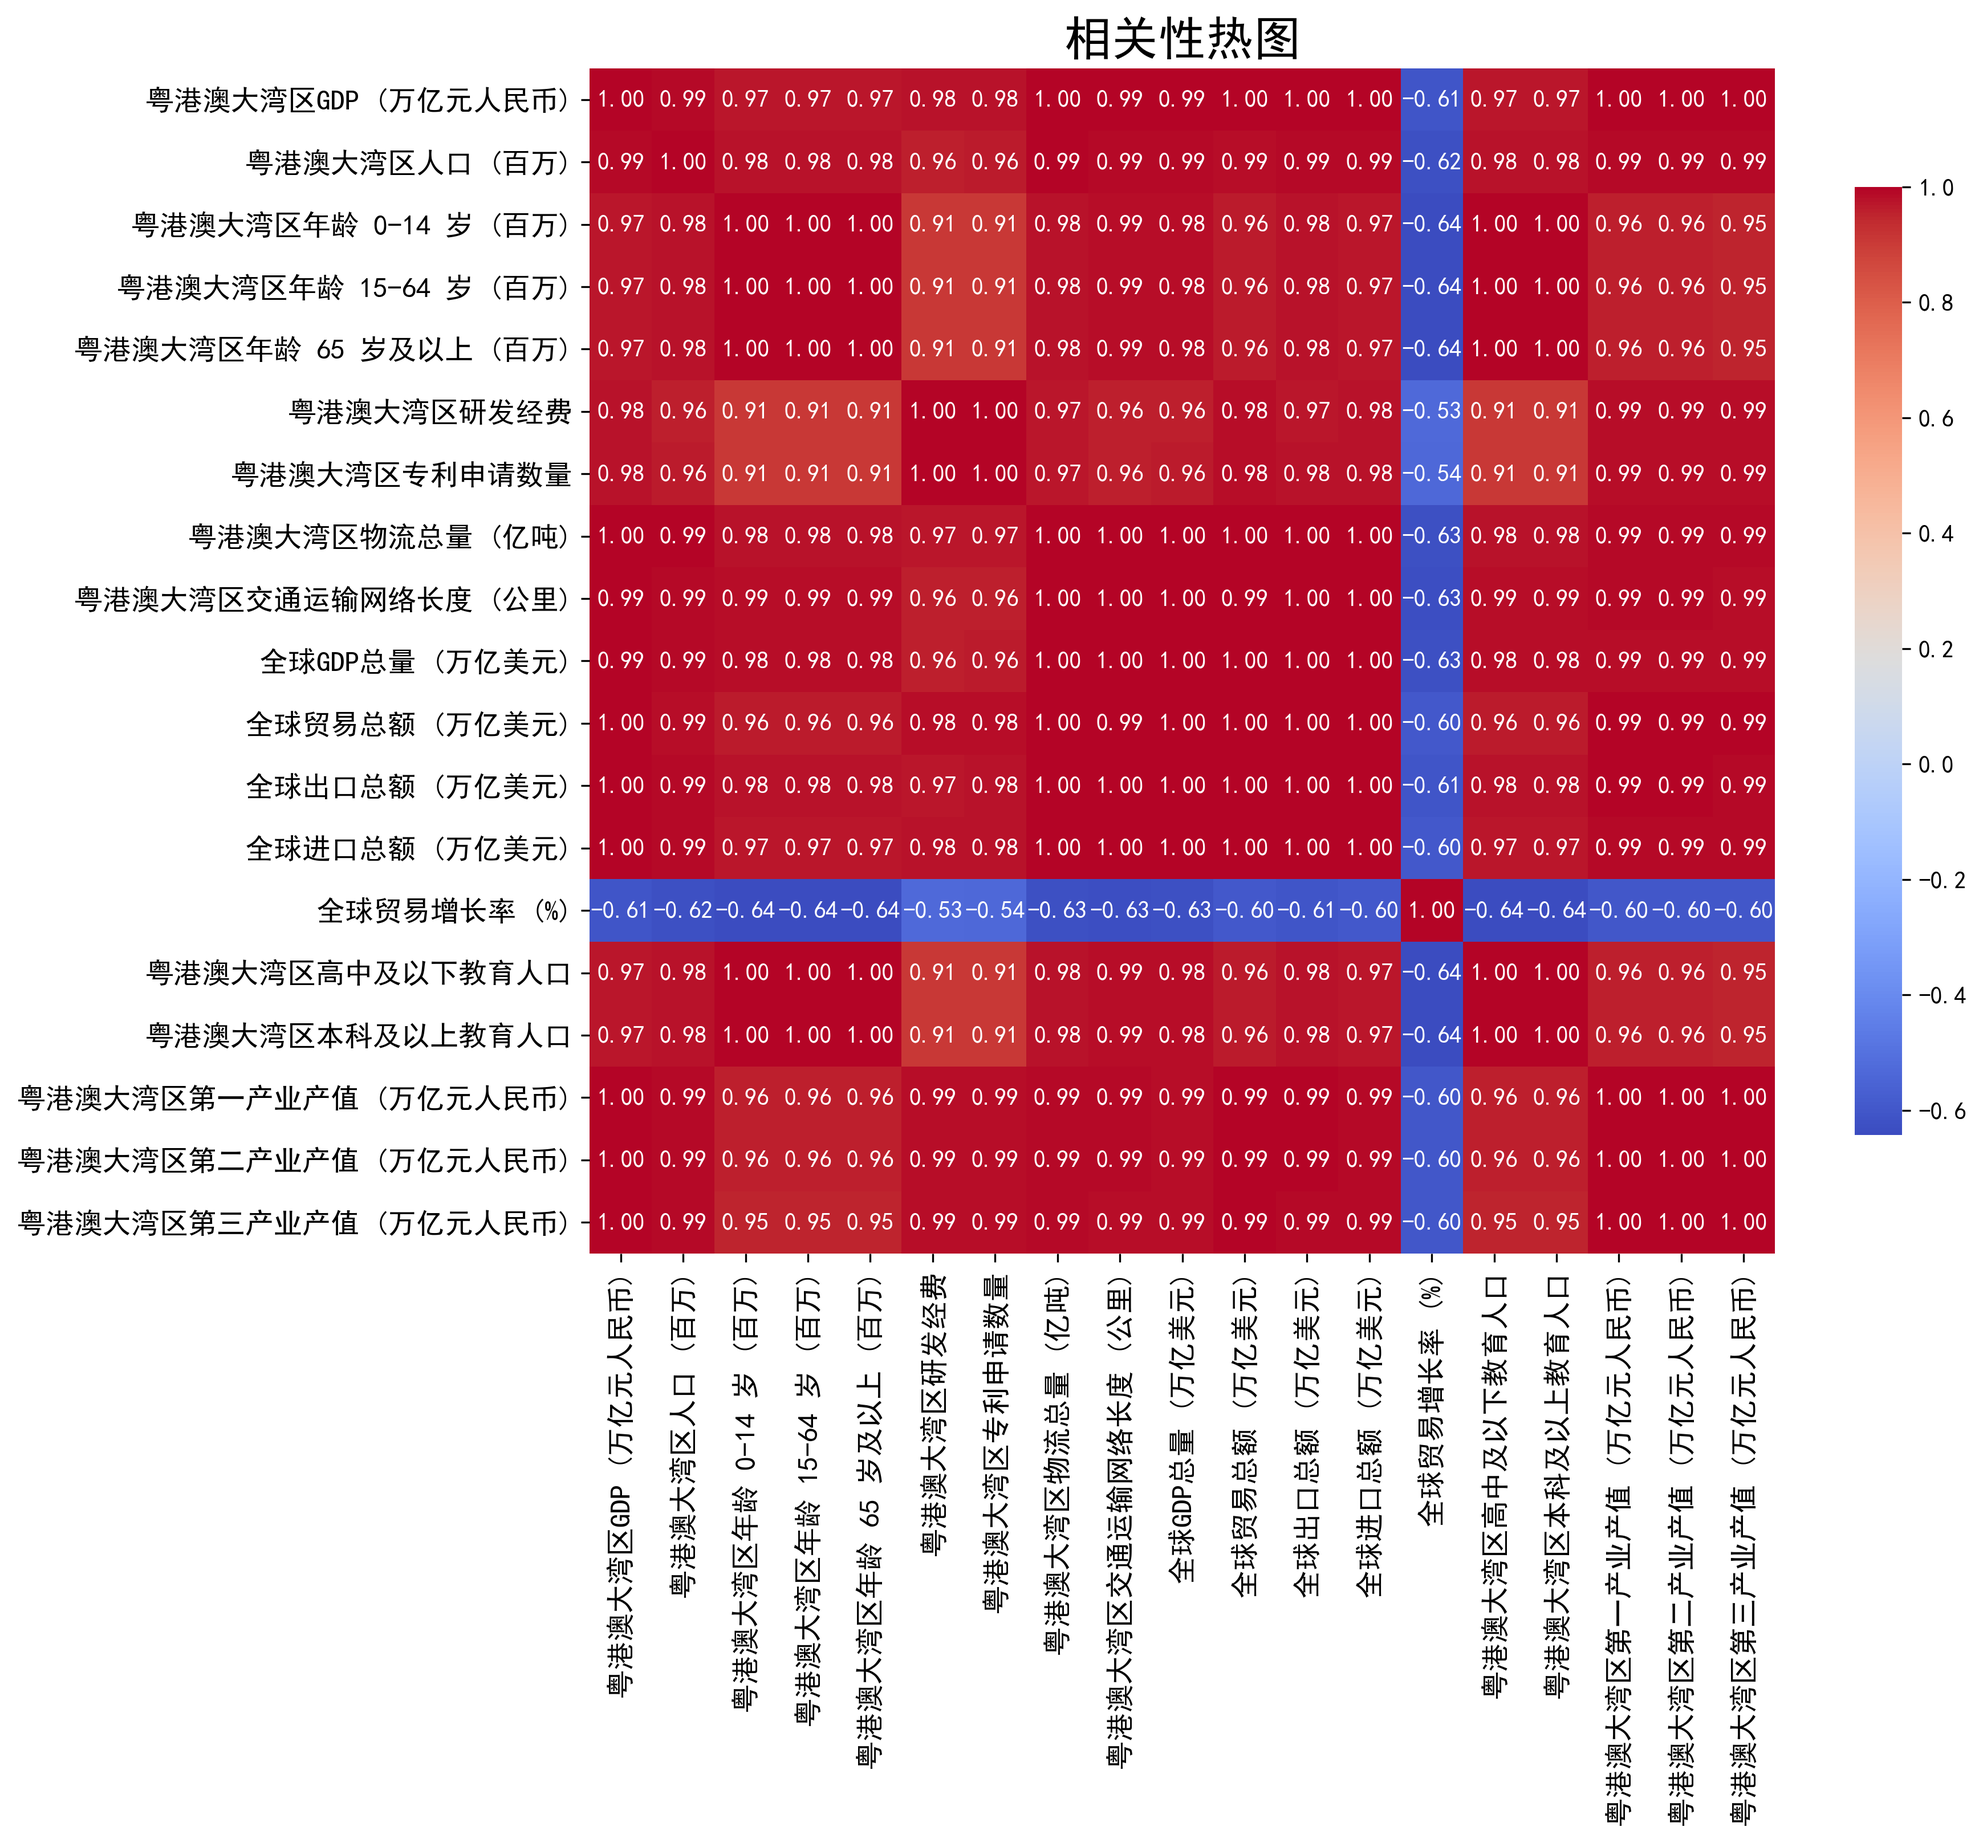
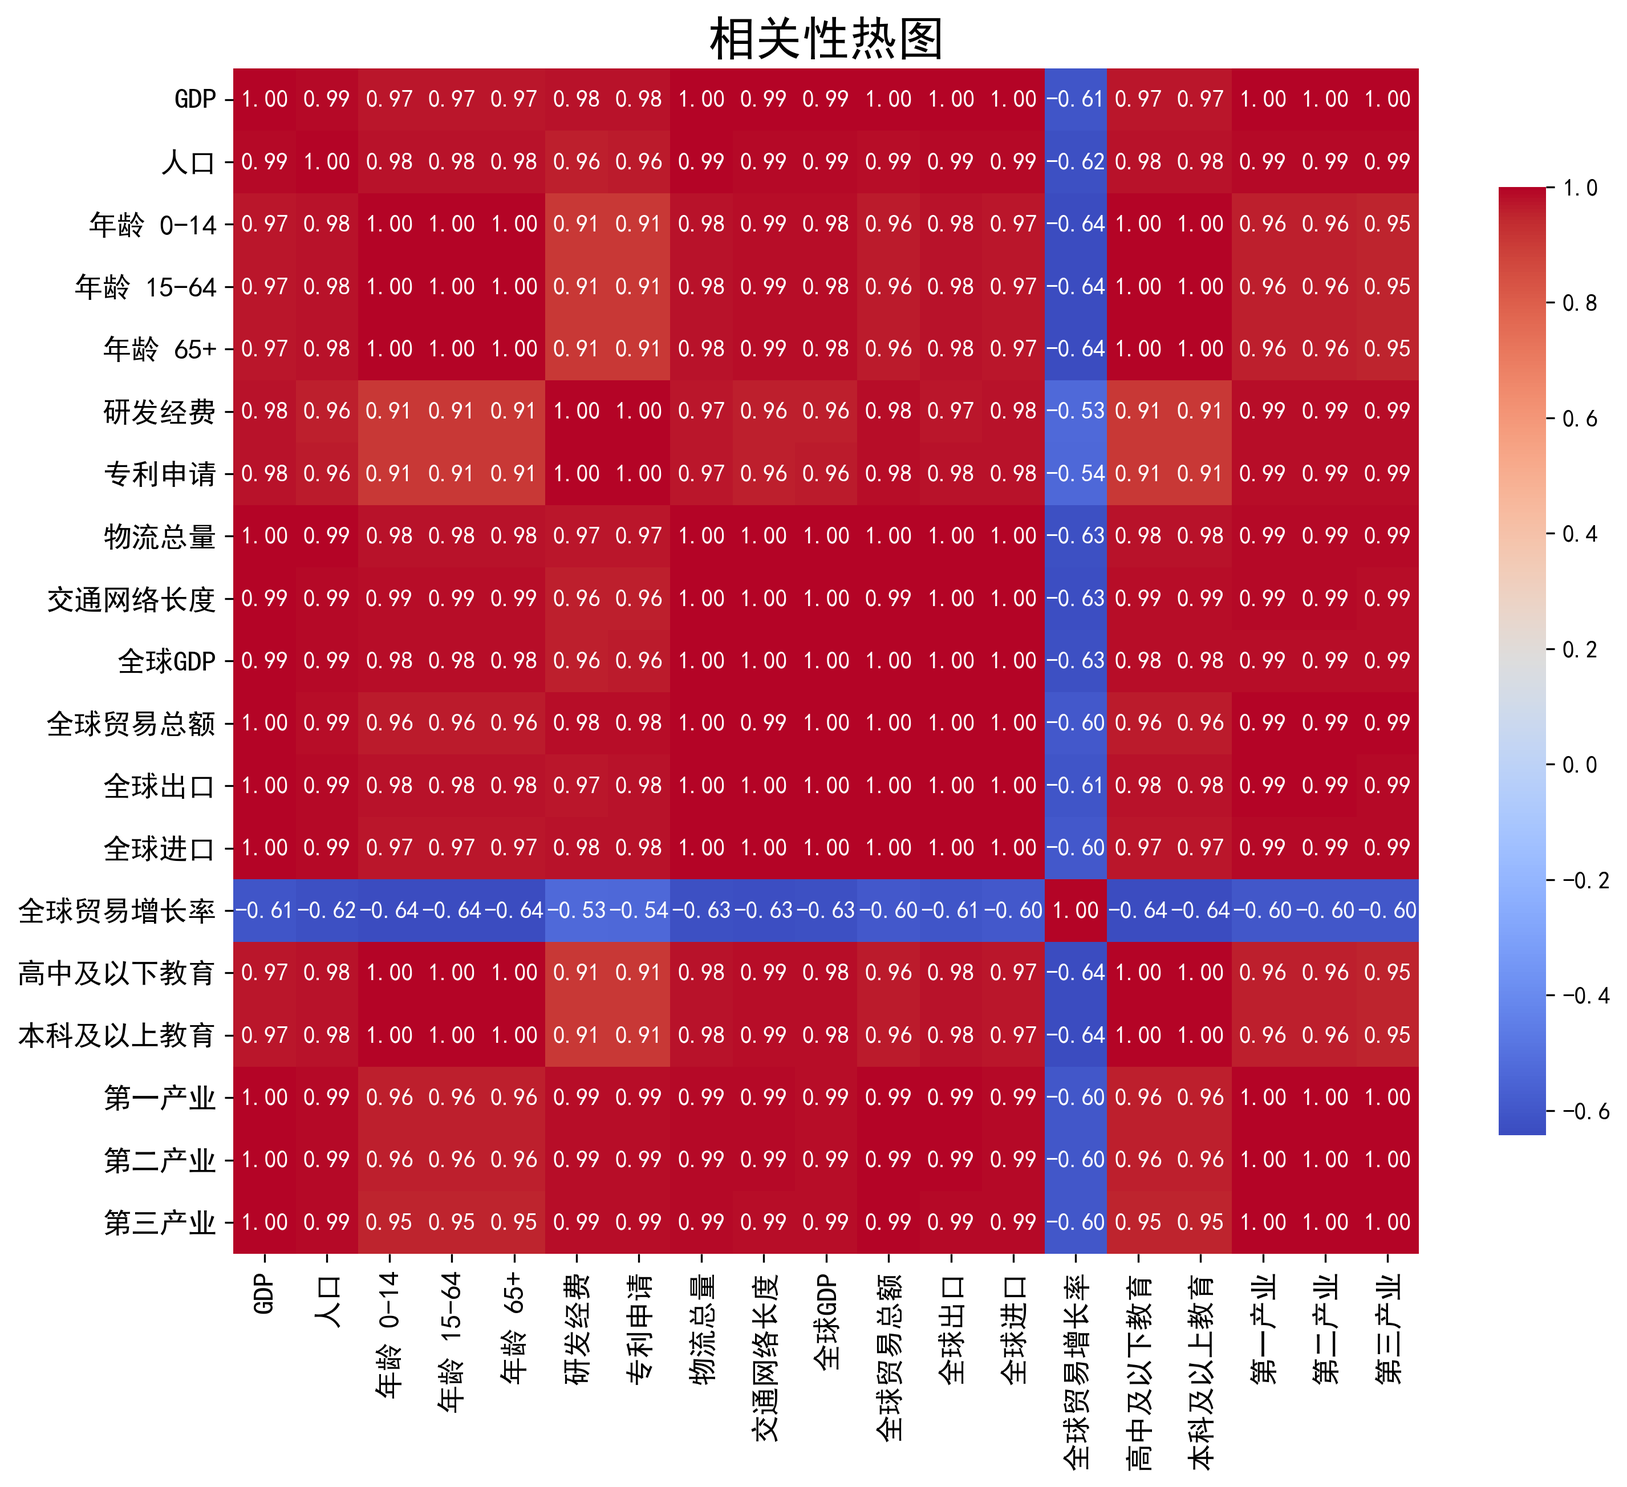
heatmap visualization updated

diff --git a/Question1_heatmap.py b/Question1_heatmap.py
@@ -9,30 +9,65 @@ plt.rcParams['font.sans-serif'] = ['SimHei']  # 使用SimHei字体
 plt.rcParams['axes.unicode_minus'] = False  # 正确显示负号
 # 1. 数据准备
 data = pd.read_excel('问题一数据集.xlsx')
-# 提取 GDP 和相关指标
-gdp = data['粤港澳大湾区GDP (万亿元人民币)']
-population_data = data[['粤港澳大湾区人口 (百万)',
-                         '粤港澳大湾区年龄 0-14 岁 (百万)',
-                         '粤港澳大湾区年龄 15-64 岁 (百万)',
-                         '粤港澳大湾区年龄 65 岁及以上 (百万)']]
+# 1. 创建列名缩写映射
+rename_columns = {
+    '粤港澳大湾区GDP (万亿元人民币)': 'GDP',
+    '粤港澳大湾区人口 (百万)': '人口',
+    '粤港澳大湾区年龄 0-14 岁 (百万)': '年龄 0-14',
+    '粤港澳大湾区年龄 15-64 岁 (百万)': '年龄 15-64',
+    '粤港澳大湾区年龄 65 岁及以上 (百万)': '年龄 65+',
+    '粤港澳大湾区研发经费': '研发经费',
+    '粤港澳大湾区专利申请数量': '专利申请',
+    '粤港澳大湾区物流总量 (亿吨)': '物流总量',
+    '粤港澳大湾区交通运输网络长度 (公里)': '交通网络长度',
+    '全球GDP总量 (万亿美元)': '全球GDP',
+    '全球贸易总额 (万亿美元)': '全球贸易总额',
+    '全球出口总额 (万亿美元)': '全球出口',
+    '全球进口总额 (万亿美元)': '全球进口',
+    '全球贸易增长率 (%)': '全球贸易增长率',
+    '粤港澳大湾区高中及以下教育人口': '高中及以下教育',
+    '粤港澳大湾区本科及以上教育人口': '本科及以上教育',
+    '粤港澳大湾区基础设施投资 (万亿元人民币)': '基础设施投资',
+    '粤港澳大湾区第一产业产值 (万亿元人民币)': '第一产业',
+    '粤港澳大湾区第二产业产值 (万亿元人民币)': '第二产业',
+    '粤港澳大湾区第三产业产值 (万亿元人民币)': '第三产业'
+}
 
-technology_data = data[['粤港澳大湾区研发经费', '粤港澳大湾区专利申请数量']]
-logistics_data = data[['粤港澳大湾区物流总量 (亿吨)',
-                        '粤港澳大湾区交通运输网络长度 (公里)']]
-international_data = data[['全球GDP总量 (万亿美元)',
-                            '全球贸易总额 (万亿美元)',
-                            '全球出口总额 (万亿美元)',
-                            '全球进口总额 (万亿美元)',
-                            '全球贸易增长率 (%)']]
+# 2. 创建一个带有简化列名的数据副本
+data_renamed = data.rename(columns=rename_columns)
 
-education_data = data[['粤港澳大湾区高中及以下教育人口',
-                       '粤港澳大湾区本科及以上教育人口']]
+# 3. 提取重命名后的相关数据
+gdp = data_renamed['GDP']
+population_data = data_renamed[['人口', '年龄 0-14', '年龄 15-64', '年龄 65+']]
+technology_data = data_renamed[['研发经费', '专利申请']]
+logistics_data = data_renamed[['物流总量', '交通网络长度']]
+international_data = data_renamed[['全球GDP', '全球贸易总额', '全球出口', '全球进口', '全球贸易增长率']]
+education_data = data_renamed[['高中及以下教育', '本科及以上教育']]
+industry_data = data_renamed[['第一产业', '第二产业', '第三产业']]
+# # 提取 GDP 和相关指标
+# gdp = data['粤港澳大湾区GDP (万亿元人民币)']
+# population_data = data[['粤港澳大湾区人口 (百万)',
+#                          '粤港澳大湾区年龄 0-14 岁 (百万)',
+#                          '粤港澳大湾区年龄 15-64 岁 (百万)',
+#                          '粤港澳大湾区年龄 65 岁及以上 (百万)']]
 
-foundation_data = data[['粤港澳大湾区基础设施投资 (万亿元人民币)']]
+# technology_data = data[['粤港澳大湾区研发经费', '粤港澳大湾区专利申请数量']]
+# logistics_data = data[['粤港澳大湾区物流总量 (亿吨)',
+#                         '粤港澳大湾区交通运输网络长度 (公里)']]
+# international_data = data[['全球GDP总量 (万亿美元)',
+#                             '全球贸易总额 (万亿美元)',
+#                             '全球出口总额 (万亿美元)',
+#                             '全球进口总额 (万亿美元)',
+#                             '全球贸易增长率 (%)']]
 
-industry_data = data[['粤港澳大湾区第一产业产值 (万亿元人民币)',
-                      '粤港澳大湾区第二产业产值 (万亿元人民币)',
-                      '粤港澳大湾区第三产业产值 (万亿元人民币)']]
+# education_data = data[['粤港澳大湾区高中及以下教育人口',
+#                        '粤港澳大湾区本科及以上教育人口']]
+
+# foundation_data = data[['粤港澳大湾区基础设施投资 (万亿元人民币)']]
+
+# industry_data = data[['粤港澳大湾区第一产业产值 (万亿元人民币)',
+#                       '粤港澳大湾区第二产业产值 (万亿元人民币)',
+#                       '粤港澳大湾区第三产业产值 (万亿元人民币)']]
 
 # 2. 数据探索与预处理
 print(data.describe())
